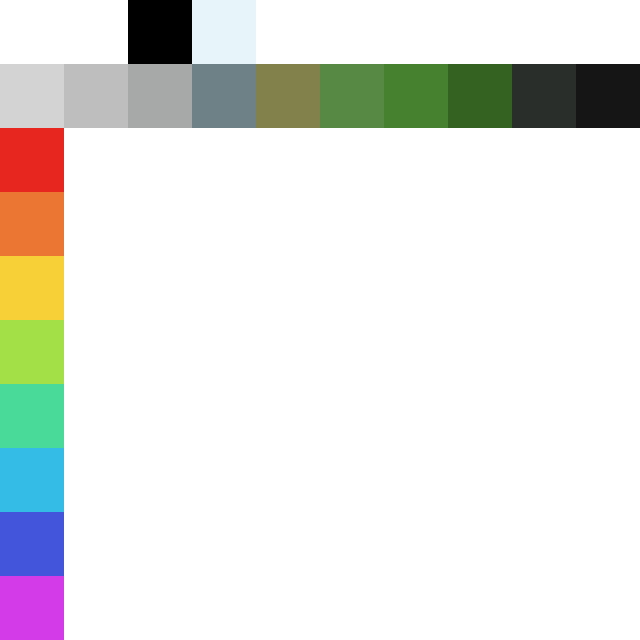
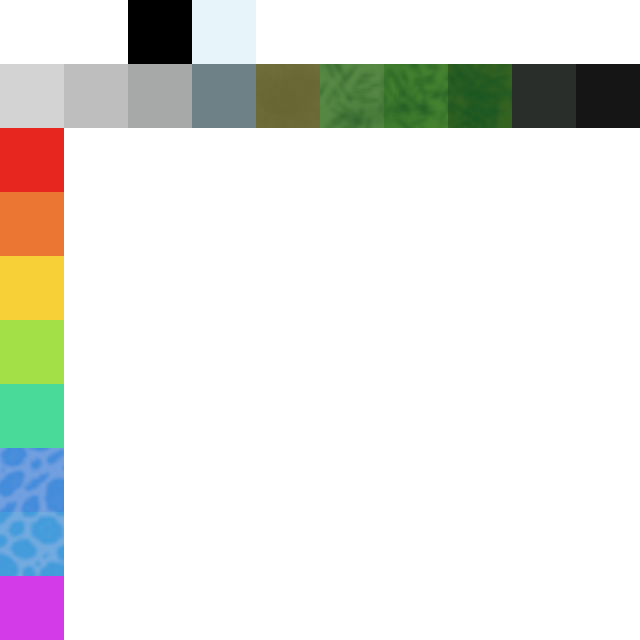
Randomization now works going upwards, added textures

diff --git a/core/src/com/bmhs/gametitle/game/assets/worlds/WorldGenerator.java b/core/src/com/bmhs/gametitle/game/assets/worlds/WorldGenerator.java
@@ -14,7 +14,8 @@ public class WorldGenerator {
 
     private int worldMapRows, worldMapColumns;
     private int[][] worldIntMap;
-    private int waterColor;
+    private int waterColor1;
+    private int waterColor2;
     private int strength;
     private static int seed = 11;
     private int defaultColor;
@@ -57,53 +58,56 @@ public class WorldGenerator {
         System.out.print(rand+" ");
 
         if (iR > 1 && iR < 99 && iC > 1 && iC < 199) {
-            if (worldIntMap[iR + 1][iC] < worldIntMap[iR][iC]) {
-                worldIntMap[iR + 1][iC] = worldIntMap[iR][iC] - 1;
-
-                if (rand <= 0.5) {
-                    System.out.println("same " + strength);
+            if (worldIntMap[iR + 1][iC] < worldIntMap[iR][iC] && worldIntMap[iR][iC] >= 8) {
+                if (rand <= 0.4) {
+                    worldIntMap[iR + 1][iC] = worldIntMap[iR][iC];
                     island(iR + 1, iC, strength);
-                } else if (rand >= 0.8 || strength != 11) {
-                    System.out.println("big " + (strength+1));
+                } else if (rand >= 0.9 && strength != 11) {
+                    worldIntMap[iR + 1][iC] = worldIntMap[iR][iC] + 1;
                     island(iR + 1, iC, strength + 1);
                 } else {
-                    System.out.println("small " + (strength-1));
+                    worldIntMap[iR + 1][iC] = worldIntMap[iR][iC] - 1;
                     island(iR + 1, iC, strength - 1);
                 }
             }
             /*
-            if (worldIntMap[iR - 1][iC] < worldIntMap[iR][iC]) {
-                worldIntMap[iR - 1][iC] = worldIntMap[iR][iC] - 1;
-                if (rand <= 0.5) {
+            if (worldIntMap[iR - 1][iC] < worldIntMap[iR][iC] && worldIntMap[iR][iC] >= 8) {
+                if (rand <= 0.3) {
+                    worldIntMap[iR - 1][iC] = worldIntMap[iR][iC];
                     island(iR - 1, iC, strength);
-                } else if (rand >= 0.8 || strength != 11) {
+                } else if (rand >= 0.9 && strength != 11) {
+                    worldIntMap[iR - 1][iC] = worldIntMap[iR][iC] + 1;
                     island(iR - 1, iC, strength + 1);
                 } else {
+                    worldIntMap[iR - 1][iC] = worldIntMap[iR][iC] - 1;
                     island(iR - 1, iC, strength - 1);
                 }
             }
-            if (worldIntMap[iR][iC + 1] < worldIntMap[iR][iC]) {
-                worldIntMap[iR][iC + 1] = worldIntMap[iR][iC] - 1;
-                if (rand <= 0.5) {
+            if (worldIntMap[iR][iC + 1] < worldIntMap[iR][iC] && worldIntMap[iR][iC] >= 8) {
+                if (rand <= 0.3) {
+                    worldIntMap[iR][iC + 1] = worldIntMap[iR][iC];
                     island(iR, iC + 1, strength);
-                } else if (rand >= 0.8 || strength != 11) {
+                } else if (rand >= 0.9 && strength != 11) {
+                    worldIntMap[iR][iC + 1] = worldIntMap[iR][iC] + 1;
                     island(iR, iC + 1, strength + 1);
                 } else {
+                    worldIntMap[iR][iC + 1] = worldIntMap[iR][iC] - 1;
                     island(iR, iC + 1, strength - 1);
                 }
             }
-            if (worldIntMap[iR][iC - 1] < worldIntMap[iR][iC]) {
-                worldIntMap[iR][iC - 1] = worldIntMap[iR][iC] - 1;
-                if (rand <= 0.5) {
+            if (worldIntMap[iR][iC - 1] < worldIntMap[iR][iC] && worldIntMap[iR][iC] >= 8) {
+                if (rand <= 0.3) {
+                    worldIntMap[iR][iC - 1] = worldIntMap[iR][iC];
                     island(iR, iC - 1, strength);
-                } else if (rand >= 0.9 || strength != 11) {
+                } else if (rand >= 0.9 && strength != 11) {
+                    worldIntMap[iR][iC - 1] = worldIntMap[iR][iC] + 1;
                     island(iR, iC - 1, strength + 1);
                 } else {
+                    worldIntMap[iR][iC - 1] = worldIntMap[iR][iC] - 1;
                     island(iR, iC - 1, strength - 1);
                 }
-            }
+            } */
 
-             */
 
         }
 
@@ -121,14 +125,19 @@ public class WorldGenerator {
     }
 
     public void iniWater() {
-        waterColor = 19;
+        waterColor1 = 19;
+        waterColor2 = 20;
         seed = 11;
         int minStr = 7;
 
         for (int r = 0; r < worldIntMap.length; r++) {
             for (int c = 0; c < worldIntMap[r].length; c++) {
                 if (worldIntMap[r][c] == defaultColor || worldIntMap[r][c] < minStr || worldIntMap[r][c] > seed) {
-                    worldIntMap[r][c] = waterColor;
+                    if (Math.random() > 0.5) {
+                        worldIntMap[r][c] = waterColor1;
+                    } else {
+                        worldIntMap[r][c] = waterColor2;
+                    }
                 }
             }
         }
